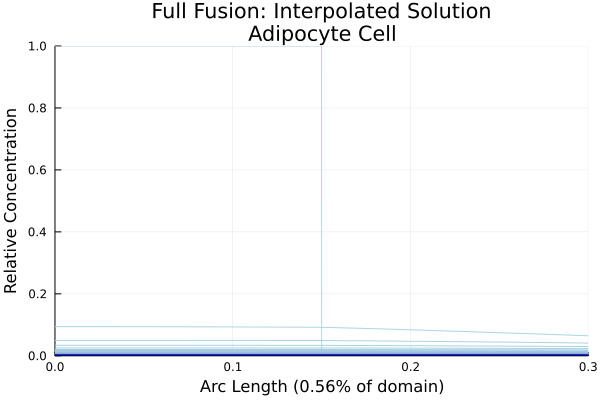
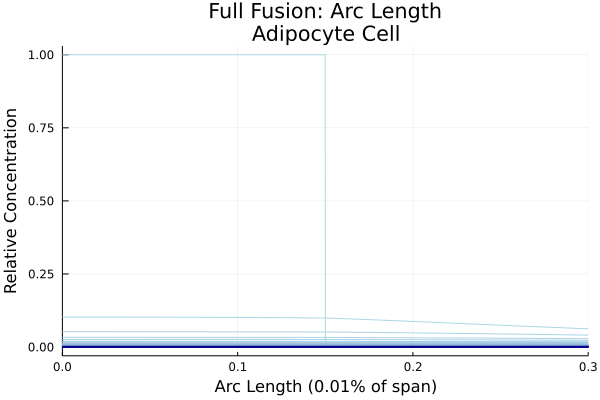
Added struct properties, altered plotting recipes

Changed region(s): [[0.03, 0.09, 0.99, 0.99], [0.24, 0.0, 0.81, 0.15], [0.54, 0.15, 0.57, 0.21]]

diff --git a/README.md b/README.md
@@ -11,82 +11,43 @@ This package simulates both scenarios as a concentration level diffusion on the 
 ### Installation
 This package is not registered, and thus can only be installed through cloning this repository.
 
-### 
+### Loading
 After git cloning, run
 ```julia
 using ProteinDiffusion
 ```
 
-### Full Fusion
-Set the parameters.
+### Running
+Define the cell and vesicle
 ```julia
-# Radii
-Rv = 1.0
-Rc = 2.0
-
-# Diffusivity
-Dv = 1.0
-Dc = 0.2
+v = Membrane(1.0, 1.0)
+c = Membrane(2.0, 0.2)
 ```
 
-Run the model.
+Run the full fusion model.
 ```julia
-f = full_fusion(Rv, Rc, Dv, Dc)
+f = FullFusion(v, c)
 ```
 
-Plot the concentration WRT arc length.
+View the diffusion
 ```julia
-using Plots
-plot(f.ang, title = "Unrealistic")
+plot(f, arc)
 ```
 
-![](plots/unrealistic_fullfusion_arc)
+![](plots/unrealistic_fullfusion_arc.png)
 
-View the total concentration integral over time.
+Run the KNR fusion model.
 ```julia
-using Plots
-plot(f.int, title = "Unrealistic")
+Rj = 0.4
+k = KNRFusion(v, c, Rj)
 ```
 
-![](plots/unrealistic_fullfusion_int.png)
-
-The raw output data is stored in `f.raw` and can also be plotted as above.
-
-### Kiss-and-Run Fusion
-Set the parameters.
+View the diffusion
 ```julia
-# Radii
-Rv = 75e-3 # [μm] GLUT4 vesicles
-Rc = 17.0 # [μm] adipocytes (smaller of bimodal size distribution)
-Rj = Rv/3 # [μm] pore junction radius
-
-# Diffusivity
-Dv = 0.5
-Dc = 2.0
-```
-
-Run the model.
-```julia
-k = knr_fusion(Rv, Rc, Rj, Dv, Dc)
-```
-
-Plot the concentration WRT arc length.
-```julia
-using Plots
 plot(k.arc)
 ```
 
-![](plots/unrealistic_knrfusion_arc.png)
-
-View the total concentration integral over time.
-```julia
-using Plots
-plot(k.int)
-```
-
-![](plots/unrealistic_knrfusion_int.png)
-
-The raw output data is stored in `k.raw` and can also be plotted as above.
+The raw output data are stored in `f.raw` and `k.raw`, and can also be plotted as above.
 
 ## Model Details
 As detailed in the [documentation][doc]:
